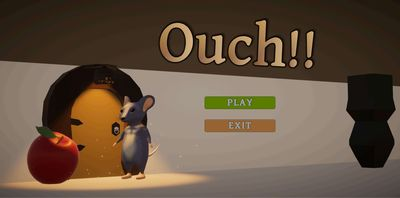
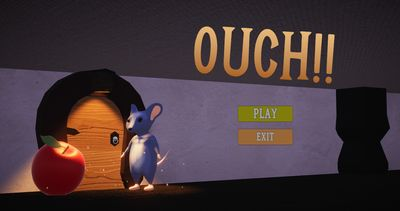
Nueva portada de Ouch!!
Claude-Session: https://claude.ai/code/session_01JaLvYe2NbgJmqot9xB4MDu

diff --git a/index.html b/index.html
@@ -401,7 +401,7 @@ h1{font-family:"Fraunces",Georgia,serif;font-weight:800;font-size:clamp(56px,13v
       <a class="tile" href="#modelado"><img loading="lazy" decoding="async" src="imagenes/mini/renault-atardecer-800.jpg" width="1600" height="900" alt=""><span class="tile-body"><b>Modelado 3D</b><span>Vehículos, personajes y objetos modelados en Maya y Blender, con sus renders y su proceso.</span></span><span class="tile-go" aria-hidden="true">Ver →</span></a>
       <a class="tile" href="#animacion"><img loading="lazy" decoding="async" src="imagenes/mini/eme-uve-800.jpg" width="1280" height="720" alt=""><span class="tile-body"><b>Animación</b><span>Visores 3D del ratón y la perrita con sus ciclos, y una escena animada en Blender.</span></span><span class="tile-go" aria-hidden="true">Ver →</span></a>
       <a class="tile" href="#personajes"><img loading="lazy" decoding="async" src="imagenes/mini/pj-mantis-800.jpg" width="2000" height="1414" alt=""><span class="tile-body"><b>Diseño de personajes</b><span>Hojas de personaje e ilustraciones de retrato en Krita y Procreate.</span></span><span class="tile-go" aria-hidden="true">Ver →</span></a>
-      <a class="tile" href="#desarrollo"><img loading="lazy" decoding="async" src="imagenes/mini/ouch-menu-800.jpg" width="1600" height="795" alt=""><span class="tile-body"><b>Desarrollo</b><span>El videojuego Ouch!! en Unity y dos proyectos web publicados en GitHub Pages.</span></span><span class="tile-go" aria-hidden="true">Ver →</span></a>
+      <a class="tile" href="#desarrollo"><img loading="lazy" decoding="async" src="imagenes/mini/ouch-menu-800.jpg" width="1356" height="714" alt=""><span class="tile-body"><b>Desarrollo</b><span>El videojuego Ouch!! en Unity y dos proyectos web publicados en GitHub Pages.</span></span><span class="tile-go" aria-hidden="true">Ver →</span></a>
     </div>
   </section>
 
@@ -571,7 +571,7 @@ h1{font-family:"Fraunces",Georgia,serif;font-weight:800;font-size:clamp(56px,13v
     <h3 class="dev-title">Desarrollo de videojuego</h3>
     <article class="game-case" aria-labelledby="ouch-title">
       <div class="game-gallery">
-        <img loading="lazy" decoding="async" class="render game-main" id="ouch-main" src="imagenes/ouch-menu.jpg" width="1600" height="795" alt="Menú de inicio de Ouch!! con el ratón junto a su guarida y una manzana">
+        <img loading="lazy" decoding="async" class="render game-main" id="ouch-main" src="imagenes/ouch-menu.jpg" width="1356" height="714" alt="Menú de inicio de Ouch!! con el ratón junto a su guarida y una manzana">
         <div class="thumbs game-thumbs" role="group" aria-label="Capturas del juego Ouch!!">
           <button type="button" aria-pressed="true" data-src="imagenes/ouch-menu.jpg" data-alt="Menú de inicio de Ouch!! con el ratón junto a su guarida y una manzana"><img loading="lazy" decoding="async" src="imagenes/mini/ouch-menu-400.jpg" alt="Menú de inicio"></button>
           <button type="button" aria-pressed="false" data-src="imagenes/ouch-juego.jpg" data-alt="Partida: el ratón bajo la mesa con la barra de estamina y el contador de manzanas"><img loading="lazy" decoding="async" src="imagenes/mini/ouch-juego-400.jpg" alt="Partida bajo la mesa"></button>
